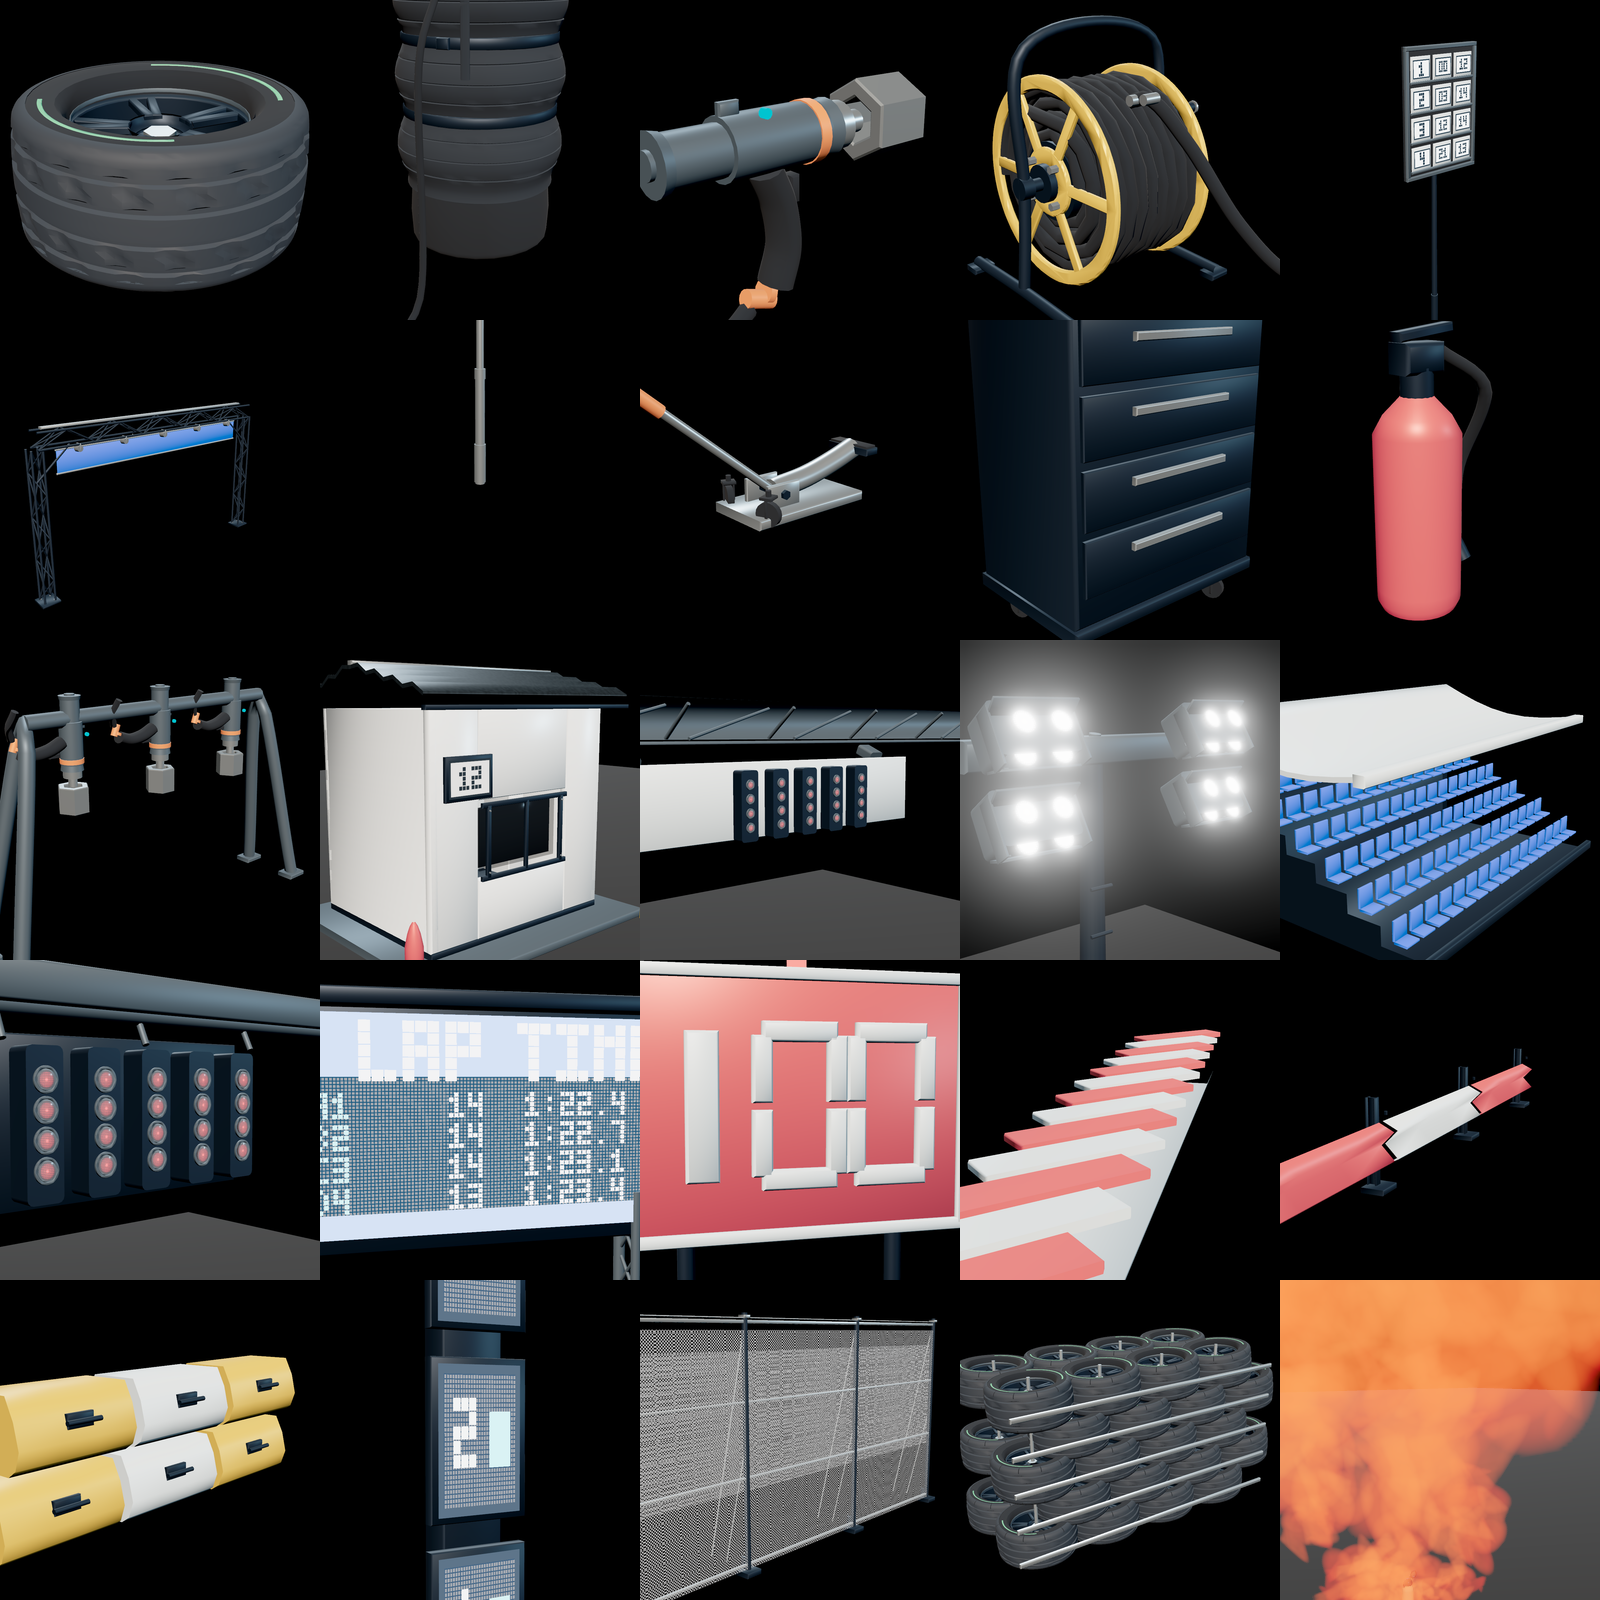
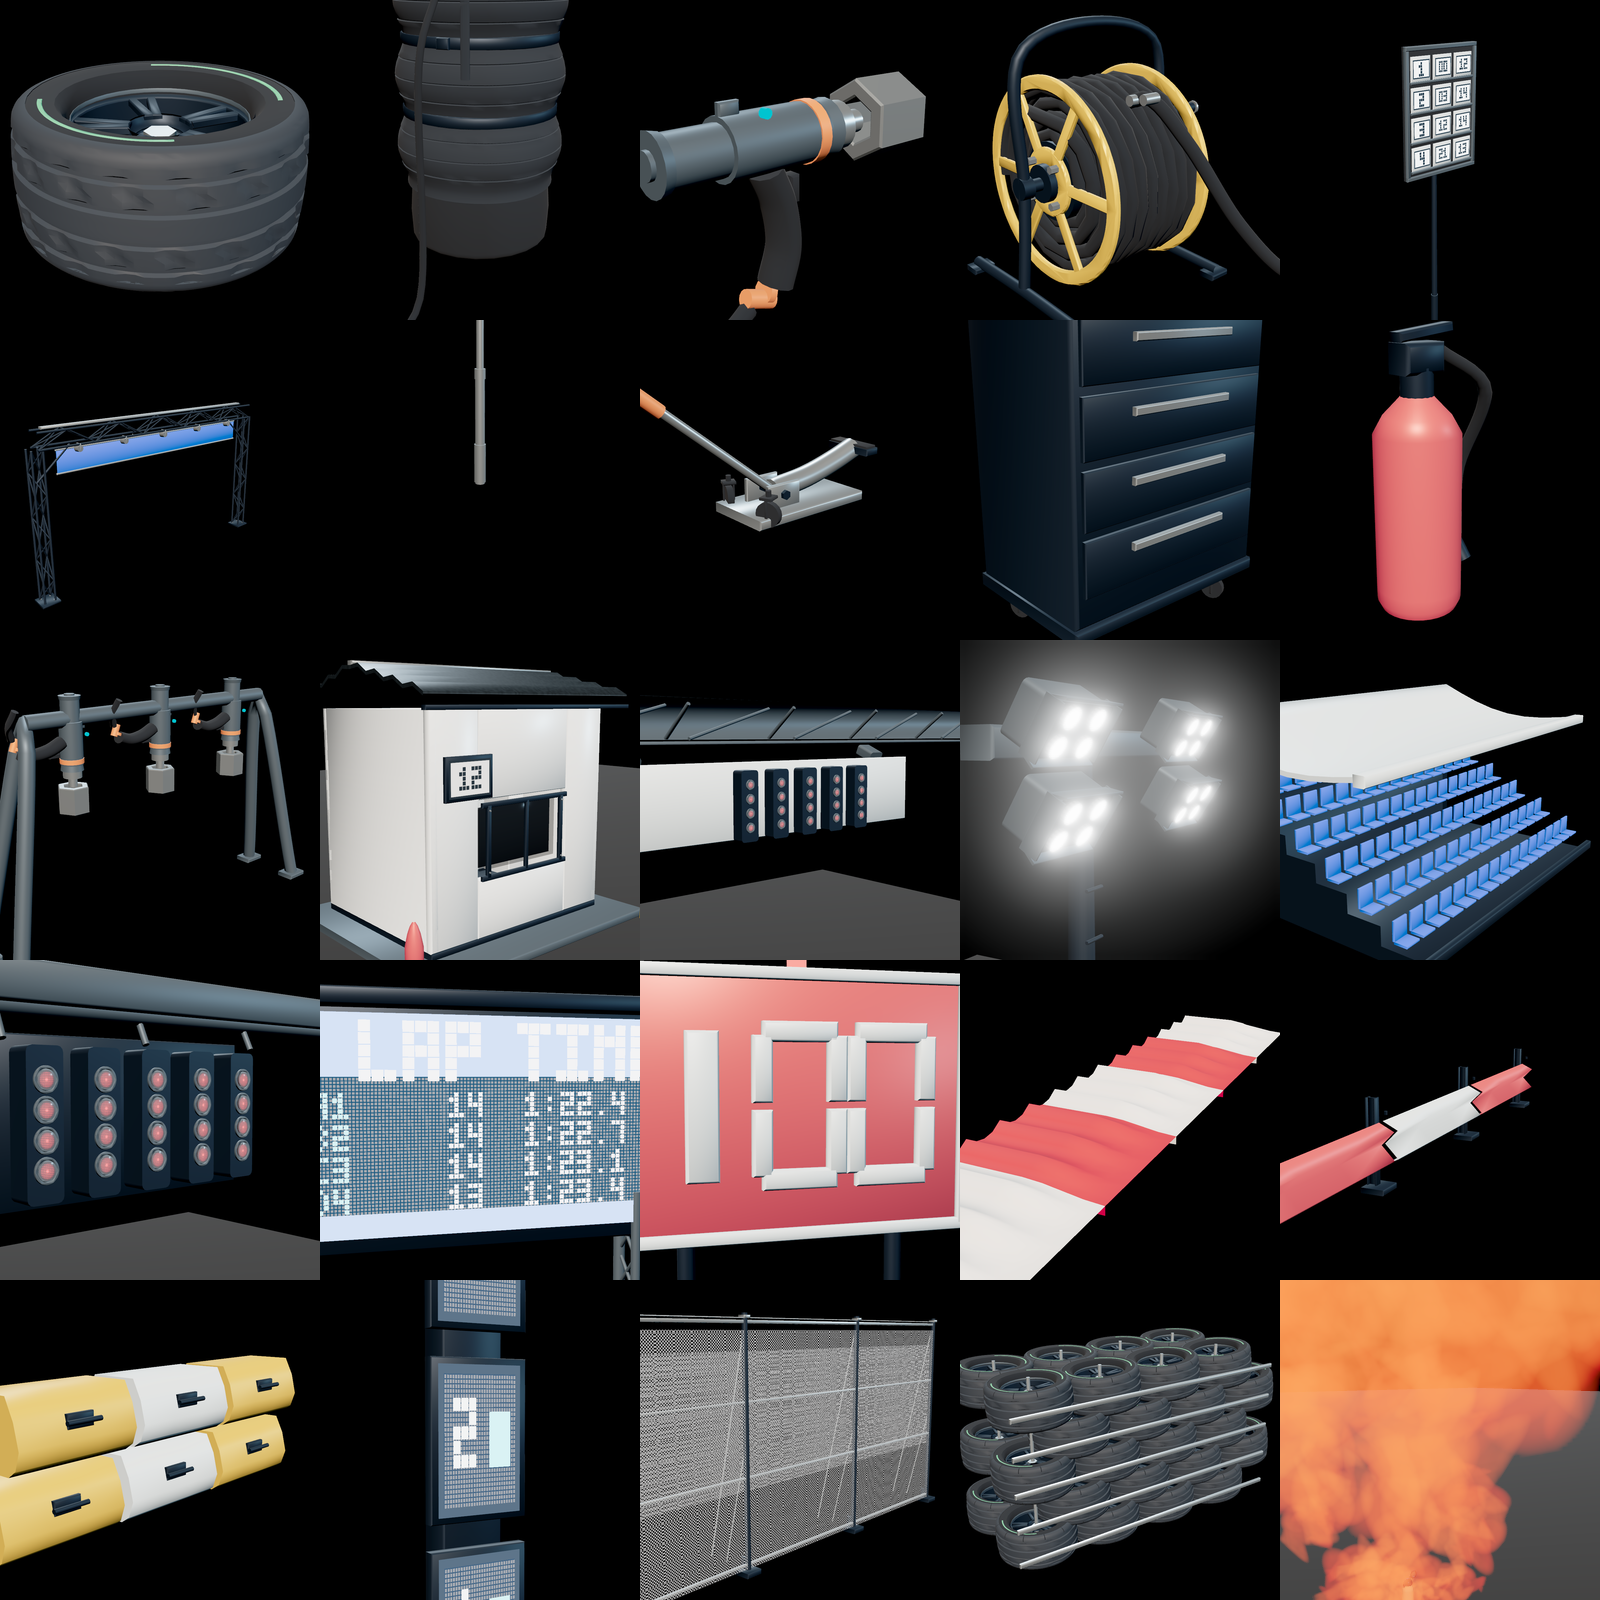
docs(f1-kit): recapture kerb and floodlight sheet tiles
Reframe the flood head from a lower three-quarter so the +32 degree
down-pitch reads, and replace the overview/trackside tiles for both props.

Changed region(s): [[0.5938, 0.375, 0.8125, 0.8125]]

diff --git a/assets/f1-prototypes/f1-floodlight/model.ts b/assets/f1-prototypes/f1-floodlight/model.ts
@@ -236,10 +236,11 @@ export function createPreview({ aspect }: { aspect: number; time?: number }) {
   const model = createModel({ height: 8 })
   return createF1Preview(model, {
     aspect,
-    target: [0, 7.45, 0.55],
-    distance: 4.6,
-    fov: 30,
-    pitch: 0.22,
+    target: [0, 7.5, 0.35],
+    distance: 4.8,
+    fov: 28,
+    yaw: -1.05,
+    pitch: 0.08,
     ground: true,
     bloom: true,
   })
